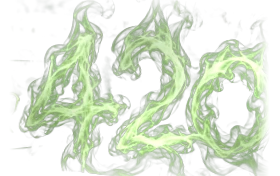
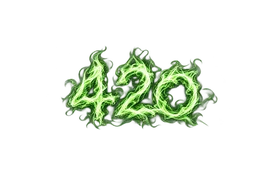
Ship complete smoke 420 and photoreal CHEERS blunt on website
* Use complete smoke 420 and realistic CHEERS blunt artwork in website

* Update static-shell regression for revised CHEERS stylesheet

diff --git a/index.html b/index.html
@@ -16,7 +16,7 @@
 <link rel="preload" href="/assets/haunted-lounge.svg" as="image" type="image/svg+xml">
 <link rel="preload" href="/assets/lobby-smoke-420-still.webp" as="image" type="image/webp">
 <link rel="stylesheet" href="/styles.css?v=20261016-shieldmobile29">
-<link rel="stylesheet" href="/cheers-hero-v1.css?v=20261016-hero3">
+<link rel="stylesheet" href="/cheers-hero-v1.css?v=20261017-real-smoke1">
 <link rel="stylesheet" href="/sesh-signal-v3.css">
 <link rel="stylesheet" href="/lobby-redesign.css?v=20261016-rebuild1">
 <link rel="stylesheet" href="/brand-header.css?v=20261017-smoke-real2">
@@ -72,9 +72,8 @@
           <span>AFTER</span>
           <span class="headline-cheers">
             <span class="cheers-word">CHEERS,</span>
-            <img class="cheers-art" src="/assets/approved-smoke-cheers.svg" alt="" decoding="async">
-            <img class="cheers-leaf" src="/assets/approved-leaf.svg" alt="" width="130" height="185" decoding="async">
-            <span class="cheers-roll" aria-hidden="true"><img src="/assets/cheers-joint.svg" alt="" width="780" height="128" decoding="async"></span>
+            <img class="cheers-art" src="/assets/cheers-real-smoke-blunt.webp" alt="" width="1100" height="367" decoding="async">
+
           </span>
           <span class="headline-highlight">WE PLAY<span class="final-dot">.</span></span>
         </h1>

diff --git a/cheers-hero-v1.css b/cheers-hero-v1.css
@@ -122,3 +122,22 @@
 }
 html.fx-off .hero-heading-cheers .cheers-art,
 html.fx-off .hero-heading-cheers .cheers-roll::after{animation:none}
+
+
+/* Approved photoreal CHEERS smoke and lit blunt are one transparent
+   raster composition. No fake vector joint or leaf overlays. */
+.hero-heading-cheers .headline-cheers{
+  width:min(4.0em,100%);height:1.23em;margin:.015em 0 .035em;overflow:visible;
+}
+.hero-heading-cheers .cheers-art{
+  inset:0;width:100%;height:100%;object-fit:contain;object-position:center;
+}
+@media(max-width:760px){
+  .hero-heading-cheers .headline-cheers{width:min(4.05em,89%);height:1.24em;margin:.015em 0 .04em}
+}
+@media(max-width:420px){
+  .hero-heading-cheers .headline-cheers{width:min(4.05em,89%)}
+}
+@media(max-width:360px){
+  .hero-heading-cheers .headline-cheers{width:min(4.05em,89%)}
+}

diff --git a/assets/ATTRIBUTION.md b/assets/ATTRIBUTION.md
@@ -10,3 +10,5 @@ Barlow Condensed ExtraBold by Jeremy Tribby, obtained from google/fonts (ofl/bar
 The 420 Lobby neon lounge banner and matching header wordmark are original generated artwork supplied for the website. Both shipped WebP files derive from the **same** rendered image (the wordmark is a tighter crop). The original pixels are not redrawn with SVG or CSS; CSS handles only proportional layout and responsive sizing.
 
 The responsive header's live smoke is a **48-frame, transparency-preserving animated WebP** created from the photo-real smoke numerals in the original generated neon lounge artwork. Real wisps are advected between frames, rather than redrawn as SVG glyphs. The companion still WebP is used for reduced-motion / data-saver settings and when the site's FX toggle is off. The full lounge banner remains unchanged in its lower homepage location.
+
+The site header's complete 420 smoke wordmark and the hero's combined CHEERS lettering and lit blunt are original transparent rendered assets approved for this website. Both are served as compressed WebP images; the 420 uses an animated WebP with a static fallback for reduced-motion, data-saver, and disabled effects. The lower lounge banner remains unchanged.
